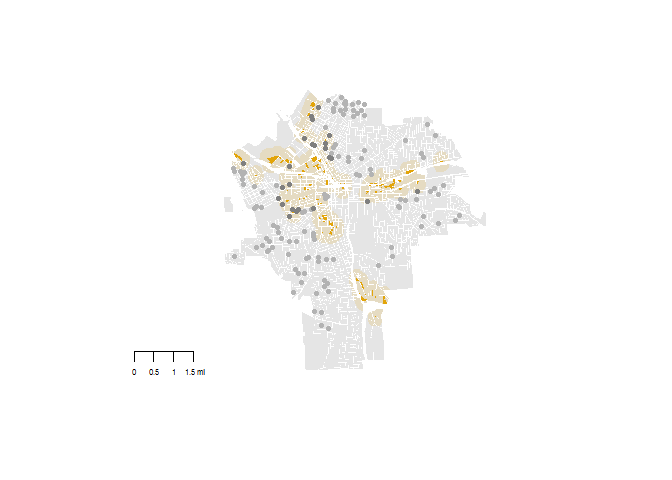
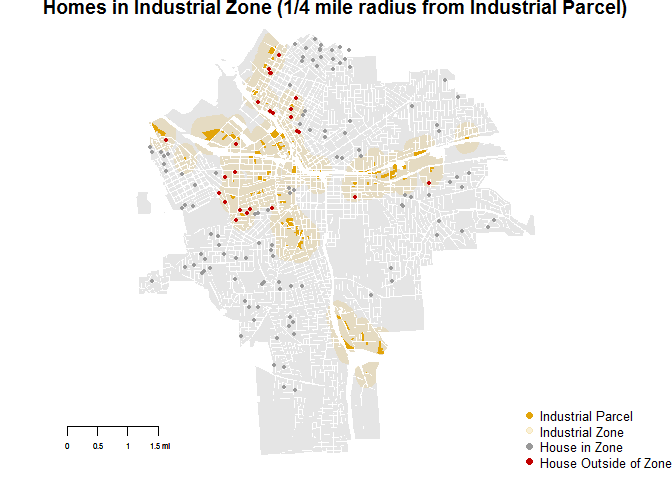
Added School Section

diff --git a/Lab06/20170309_Lab06_DDMII_BrownChristine.md b/Lab06/20170309_Lab06_DDMII_BrownChristine.md
@@ -3,7 +3,7 @@
 Christine Brown
 March 9, 2017
 
-Part 2: Using the Syracuse parcel file: (1) Create a buffer a quarter mile from industrial zones (LandUse). Create a plot to highlight your buffer zone. (2) Identify houses within the buffer zone and create a categorical variable in the dataset indicating proximity to industrial zones. (3) Create a buffer zone an eighth of a mile from schools. Create a plot go highlight these buffer zones. (4) Identify houses within the buffer zone and create a categorical variable in the dataset indicating proximity to schools.
+Set-Up
 
 ``` r
 #Load Packages
@@ -15,14 +15,14 @@ library( raster )
 library( rgdal )
 library( rgeos )
 library( sp )
+
+#Prepare Working Directory
+setwd("C:/Users/brown/Documents/Grad School/Fall 16/DDMII/all-labs-ddmii-christine-brown/Lab06")
 ```
 
 Part I
 
 ``` r
-#Prepare Working Directory
-setwd("C:/Users/brown/Documents/Grad School/Fall 16/DDMII/all-labs-ddmii-christine-brown/Lab06")
-
 #Download Onondaga Data
 ##download.file("ftp://ftp2.census.gov/geo/tiger/TIGER2010/TRACT/2010/tl_2010_36067_tract10.zip", "onondaga_census_tracts.zip" )
 ##unzip( "onondaga_census_tracts.zip" )
@@ -42,11 +42,9 @@ roads <- readShapeLines( fn="tl_2015_36_prisecroads", proj4string=CRS("+proj=lon
 
 #Subset Interstates
 interstate <- roads[ roads$RTTYP == "I" , ]
-noninterstate <- roads[ roads$RTTYP != "I" , ]
 
 #Clip Roads
 interstate_clipped <- gIntersection(syr, interstate, byid = TRUE, drop_lower_td = TRUE) #clip interstate with syr
-noninterstate_clipped <- gIntersection(syr, noninterstate, byid = TRUE, drop_lower_td = TRUE) #clip noninterstate with syr
 
 #Create Buffer
 buff1 <- gBuffer( interstate_clipped, width=.005, byid=T )
@@ -65,19 +63,24 @@ highway.zone <- as.data.frame(highway.zone)
 houses <- cbind(houses, highway.zone)
 
 #Plot Tracts, Roads, Buffer, and Houses
-par( mar=c(0,0,0,0) )
-plot(syr, border="gray80")
-plot(noninterstate_clipped, col = "mediumpurple3", lwd=1.25, add=T)
-plot(interstate_clipped, col = "firebrick", lwd=1.75, add=T)
-plot(buff1_clipped, col=rgb(150,50,50,20,maxColorValue=255),add=T, border=F)
-points(coordinates_SP[houses$highway.zone==0], pch=20, cex=.6)
-points(coordinates_SP[houses$highway.zone==1], col="firebrick", pch=20, cex=.6)
+par( mar=c(.6,0,.6,0) )
+plot(syr, col="gray90", border="white", main="Homes in Highway Zone (1/2 mile radius from Highway)")
+plot(interstate_clipped, col = "#dd7804", lwd=1.75, add=T)
+plot(buff1_clipped, col=rgb(221, 120, 4,30,maxColorValue=255),add=T, border=F)
+points(coordinates_SP[houses$highway.zone==0], pch=20, cex=.9, col="gray60")
+points(coordinates_SP[houses$highway.zone==1], col="#c10101", pch=20, cex=.9)
 
+#Add Legend
+legend( 'bottomright', pch=20, pt.cex=1.4, cex=.8, xpd=NA, bty="n", inset=-.01,
+        legend=c("Highway", "Highway Zone", "House in Zone", "House Outside of Zone"), 
+        col=c("#dd7804",rgb( 221, 120, 4,50, maxColorValue=255), "gray60", "#c10101"))
 #Add Scale
-map.scale( metric=F, ratio=F, relwidth = 0.1, cex=.5 )
+map.scale( metric=F, ratio=F, relwidth = 0.1, cex=.5, y=-2, x=0 )
 ```
 
-![](20170309_Lab06_DDMII_BrownChristine_files/figure-markdown_github/unnamed-chunk-3-1.png) Part II
+![](20170309_Lab06_DDMII_BrownChristine_files/figure-markdown_github/unnamed-chunk-3-1.png)
+
+Part II
 
 ``` r
 #load shapefiles
@@ -106,12 +109,52 @@ industrial.zone <- as.data.frame(industrial.zone)
 houses <- cbind(houses, industrial.zone)
 
 #plot industrial zone map with data
-plot(syr_parcels, border=F, col="gray90" )
+par( mar=c(.4,0,.6,0) )
+plot(syr_parcels, border=F, col="gray90", main="Homes in Industrial Zone (1/4 mile radius from Industrial Parcel)" )
 plot(industrial, border=F, col="#e2a409", add=T)
 plot(buff2_clipped, col=rgb( 226, 164, 9, 40, maxColorValue=255), border=F, add=T)
 map.scale( metric=F, ratio=F, relwidth = 0.1, cex=.5 )
-points(coordinates_SP[houses$industrial.zone==0], col="gray70", pch=20, cex=1)
-points(coordinates_SP[houses$industrial.zone==1], col="gray50", pch=20, cex=1)
+points(coordinates_SP[houses$industrial.zone==0], col="gray60", pch=20, cex=.9)
+points(coordinates_SP[houses$industrial.zone==1], col="#c10101", pch=20, cex=.9)
+
+#Add Legend
+legend( 'bottomright', pch=20, pt.cex=1.4, cex=.8, xpd=NA, bty="n", inset=-.01, 
+        legend=c("Industrial Parcel", "Industrial Zone", "House in Zone", "House Outside of Zone"), 
+        col=c("#e2a409",rgb( 226, 164, 9, 40, maxColorValue=255), "gray60", "#c10101"))
+map.scale( metric=F, ratio=F, relwidth = 0.1, cex=.5 )
 ```
 
 ![](20170309_Lab06_DDMII_BrownChristine_files/figure-markdown_github/unnamed-chunk-4-1.png)
+
+``` r
+#identify school parcels
+school <- syr_parcels[syr_parcels$LandUse == "Schools",]
+
+#create school buffer
+buff3 <- gBuffer( school, width=.0018, byid=F )
+buff3_clipped <- gIntersection(syr_parcels, buff3)
+buff3_clipped_proj <- spTransform( buff3_clipped, CRS( "+proj=longlat +datum=WGS84" ) )
+
+#find data in school buffer zone and record in dataframe
+school.zone <- over(coordinates_SP, buff3_clipped_proj )
+school.zone[is.na(school.zone)] <- 0
+school.zone <- as.data.frame(school.zone)
+houses <- cbind(houses, school.zone)
+
+#plot school zone map with data
+par( mar=c(.4,0,.6,0) )
+plot(syr_parcels, border=F, col="gray90", main="Homes in School Zone (1/8 mile radius from Schools)" )
+plot(school, border=F, col="#316dce", add=T)
+plot(buff3_clipped, col=rgb( 49, 109, 206, 60, maxColorValue=255), border=F, add=T)
+map.scale( metric=F, ratio=F, relwidth = 0.1, cex=.5 )
+points(coordinates_SP[houses$school.zone==0], col="gray60", pch=20, cex=.9)
+points(coordinates_SP[houses$school.zone==1], col="#c10101", pch=20, cex=.9)
+
+#Add Legend
+legend( 'bottomright', pch=20, pt.cex=1.4, cex=.8, xpd=NA, bty="n", inset=-.01,
+        legend=c("School Parcel", "School Zone", "House in Zone", "House Outside of Zone"), 
+        col=c("#316dce",rgb( 49, 109, 206, 60, maxColorValue=255), "gray60", "#c10101"))
+map.scale( metric=F, ratio=F, relwidth = 0.1, cex=.5 )
+```
+
+![](20170309_Lab06_DDMII_BrownChristine_files/figure-markdown_github/unnamed-chunk-4-2.png)
